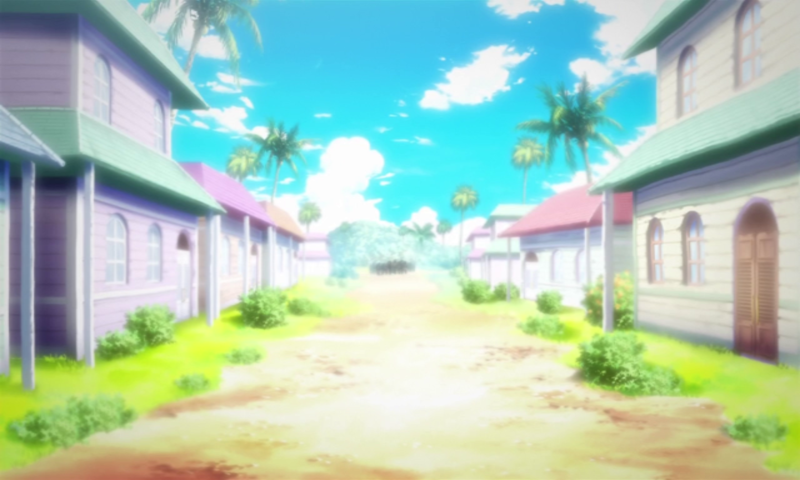
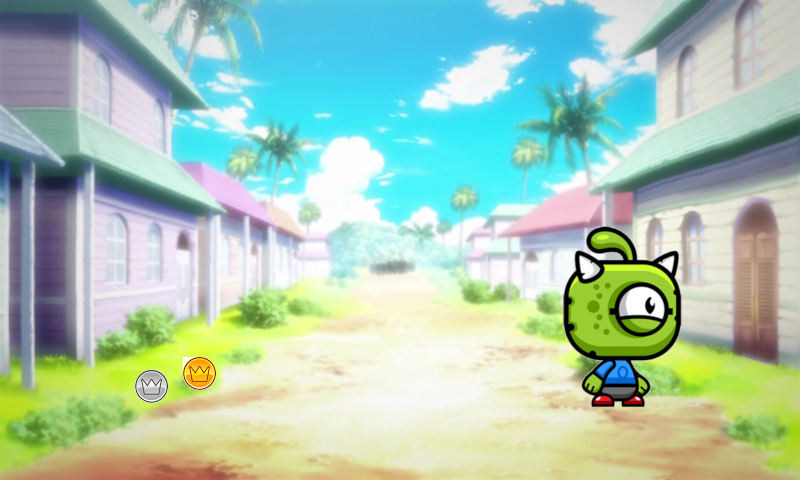
add transporterRoom & some pictures

Changed region(s): [[0.6875, 0.4688, 0.875, 0.875], [0.1562, 0.7188, 0.2812, 0.8438]]

diff --git a/src/Scenario.java b/src/Scenario.java
@@ -4,15 +4,16 @@ import java.util.*;
 
 public class Scenario{
 
-    private List<Room> rooms;
+    private ArrayList<Room> rooms;
     private Room startRoom;
-    private Random random;
 
     public Scenario(){
-
-        random = new Random();
+        this.rooms=new ArrayList<Room>();
         Room cocoyashi, nooberland, wanoKuni, water7, kalen, ortopia, alabasta, krakenland, amazoneLily, skypia,paris8, rafel, pontDuJoie, elMourouj, parcB, laMarsa, sidiBouSaid;
-
+        
+        TransporterRoom sakura;
+        sakura =new TransporterRoom("Transporter room in this room you can be tranported to a random room", "src/images/teleport.gif");
+        
         cocoyashi = new Room("Cocoyashi", "src/images/kokoyashi.png");
         nooberland = new Room("Nooberland", "src/images/Nooberland.png");
         wanoKuni = new Room("Wano_kuni", "src/images/wanokuni.png");
@@ -49,13 +50,11 @@ public class Scenario{
         wanoKuni.addItems("apple", new Item("apple", "this item give you life ", 50, 10));
 
         water7.setExits("west", nooberland);
+        water7.setExits("east", sakura);
         water7.addItems("beamer", new Item("beamer", "this item can teleport you to a random room", 5, 10));
-
+        
         kalen.setExits("north", skypia);
         kalen.setExits("southEast", nooberland);
-        kalen.addItems("ammo", new Item("ammo", "this item can charge your Beamer", 1, 10));
-        kalen.addItems("ammo", new Item("ammo", "this item can charge your Beamer", 1, 10));
-        kalen.addItems("ammo", new Item("ammo", "this item can charge your Beamer", 1, 10));
         kalen.addItems("ammo", new Item("ammo", "this item can charge your Beamer", 1, 10));
 
         ortopia.setExits("north", krakenland);
@@ -83,30 +82,46 @@ public class Scenario{
 
         paris8.setExits("south", skypia);
         paris8.addItems("cookie", new Item("cookie", "This magic cookie multiply your bag weight by 2", 250, 0));
+        
         rafel.setExits("southWest", skypia);
         rafel.setExits("north", pontDuJoie);
         rafel.setExits("southEast", parcB);
         rafel.addItems("OtropiaKey", new Item("OtropiaKey", "this is a key of a room ", 50, 10));
         
-        rooms = Arrays.asList(new Room[]{cocoyashi, nooberland, wanoKuni, water7, kalen, ortopia, alabasta, krakenland, amazoneLily, skypia,paris8, rafel, pontDuJoie, elMourouj, parcB, laMarsa, sidiBouSaid});
+        rooms.add(cocoyashi);
+        rooms.add(nooberland);
+        rooms.add(wanoKuni);
+        rooms.add(water7);
+        rooms.add(kalen);
+        rooms.add(ortopia);
+        rooms.add(alabasta);
+        rooms.add(krakenland);
+        rooms.add(amazoneLily);
+        rooms.add(skypia);
+        rooms.add(paris8);
+        rooms.add(rafel);
+        rooms.add(pontDuJoie);
+        rooms.add(elMourouj);
+        rooms.add(parcB);
+        rooms.add(laMarsa);
+        rooms.add(sidiBouSaid);
         startRoom = cocoyashi;
     }
 
     /**
-     * @return  the start room for this scenario
-     */
+    * @return  the start room for this scenario
+    */
     public Room getStartRoom(){
         return this.startRoom;
     }
     
     /**
-     * @return  a random room from this scenario
-     */
+    * @return  a random room from this scenario
+    */
     public Room getRandomRoom(){
-        return rooms.get(random.nextInt(rooms.size()));
+        int random = (int)(Math.random() * rooms.size() + 1);
+        return rooms.get(random);
     }
-
-
 
 
 

diff --git a/src/GameEngine.java b/src/GameEngine.java
@@ -53,7 +53,6 @@ public class GameEngine {
 
         do {
             LocalTime currentTime = LocalTime.now();
-            //System.out.println("Minute: " + currentTime.getMinute());
             if (currentTime.getMinute() == localTime3.getMinute()) {
                 endGame();
                 finish = 1;
@@ -74,8 +73,6 @@ public class GameEngine {
         gui.showImage(currentRoom.getImageName());
 
     }
-
-    
 
     /**
      * Given a command, process (that is: execute) the command. If this command ends
@@ -246,7 +243,7 @@ public class GameEngine {
     * This function allow to the player to pick up things in the room 
     * @param Command enter by the user 
     */
-    private void take(Command command) {
+    private void take(Command command){
     	if(!command.hasSecondWord()) {
     		gui.print("take What ?");
     		return;
@@ -256,6 +253,11 @@ public class GameEngine {
         	if(player.checkWeight(newItem, currentRoom.checkItemInTheRoom(newItem) )) {
         		player.addItemToBag(newItem,  currentRoom.checkItemInTheRoom(newItem));
                 currentRoom.removeItems(newItem);
+                if(newItem=="gold"){
+                    System.out.println(newItem);
+                    currentRoom.setImageName("src/images/kokoyashi2.png");
+                    gui.showImage(currentRoom.getImageName());
+                }
                 gui.setBagContain(player.getTotalWeight(),player.getWeight()+player.getTotalWeight());
 
 
@@ -313,6 +315,9 @@ public class GameEngine {
     }
 
     private void talk(){
+        currentRoom.setImageName("src/images/kokoyashi1.png");
+        gui.showImage(currentRoom.getImageName());
+
         gui.println(currentRoom.getCharactersHi());
     }
     /**
@@ -321,16 +326,23 @@ public class GameEngine {
     */
     private void pay() {
         //TODO
-        /*
-    	if(player.getLocation()==elMourouj) {
-    		if(player.getSolde()-10>0) {
-                player.setSolde(player.getSolde()-10);
-    			gui.print("Thank you it's 10$\n");
-    			elMourouj.setExits("southEast",laMarsa);
-                elMourouj.setExits("southWest",krakenland);
-                gui.setInformation(player.getSolde());
+
+        String d=(player.getLocation()).getDescription();
+        System.out.println(d);
+        String[] validRoomToPay = {"It's a tramways that will get you to the other side \n but you have to pay the ticket or you will lose",
+                        "apple"};
+        for(int i=0;i<validRoomToPay.length;i++){
+            if((player.getLocation()).getDescription()==validRoomToPay[i]){
+                if(player.getSolde()-10>0) {
+                    player.setSolde(player.getSolde()-10);
+                    gui.print("Thank you it's 10$\n");
+                    (player.getLocation()).setExitByDescription("north","La marsa c'est la plage la plus douce");
+                    gui.setInformation(player.getSolde());
+                }
             }
-        }*/
+        
+        }
+       
     }
     /**
     * This function allow the player to open a new exits for a room

diff --git a/src/Room.java b/src/Room.java
@@ -94,7 +94,7 @@ public class Room {
     * @return A description of the room, including exits.
     */
     public String getLongDescription(){
- 		return "You are " + description + ".\n" + getExitString() + "\n"+getItemsDescription() +"\n " + getCharactersDescription();
+         return "You are in " + description + ".\n->" + getExitString() + "\n->"+getItemsDescription() +"\n->" + getCharactersDescription()+"\n------------------------------------------------------------------------------------------------------\n";
     }
     
     /**
@@ -125,6 +125,13 @@ public class Room {
 
     public String getCharactersHi(){
         return items.getHi()+"\n";
+    }
+    
+    public void setExitByDescription(String direction,String Description){
+        exits.put(direction, exits.get(Description));
+    }
+    public void setImageName(String imageName){
+        this.imageName=imageName;
     }
     /**
     * get image name

diff --git a/src/TransporterRoom.java b/src/TransporterRoom.java
@@ -1,0 +1,31 @@
+package src;
+
+public class TransporterRoom extends Room{
+	
+	
+	/**
+	* @param description String description of this room.
+	* @param scenario The Scenario that's used in the Game class.
+	*/
+	public TransporterRoom(String description,String image){
+		super(description,image);
+		
+	}
+	
+	/**
+	* @return a random room using the findRandomRoom() method.
+	*/
+	@Override
+	public Room getExit(String direction){
+		return findRandomRoom();
+	}
+	
+	/**
+	* @return a random room using the Scenario given in this class's constructor
+	*/
+	public Room findRandomRoom(){
+		Scenario a=new Scenario();
+		return a.getRandomRoom();
+	}
+	
+}

diff --git a/src/UserInterface.java b/src/UserInterface.java
@@ -14,8 +14,7 @@ public class UserInterface implements ActionListener{
 	    private JTextArea log;
 	    private JLabel image,solde,bag,life;
 		private JButton north,northEast,northWest,east,west,southEast,southWest,south,look,help,back,none;
-		private Parser parser;
-		
+		private Parser parser;		
 	    /**
 	     * Construct a UserInterface. As a parameter, a Game Engine
 	     * (an object processing and executing the game commands) is

diff --git a/src/Game.java b/src/Game.java
@@ -31,11 +31,9 @@ public class Game
     }
     
     /**
-     *  Main play routine.  Loops until end of play.
-     */
-   
-    
+    *  Main play routine.  Loops until end of play.
+    */
     public static void main(String[] args) {
-		new Game();
+		  new Game();
     }
 }
